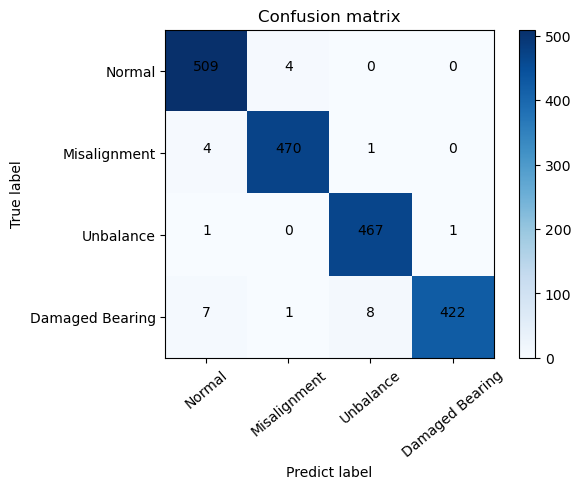
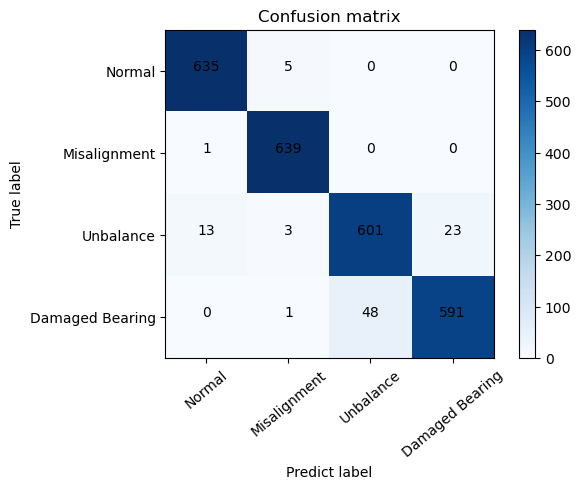
update readme 240808

diff --git a/README.md b/README.md
@@ -1,14 +1,18 @@
 # Fault Diagnosis with Time-Domain Vibration Data
+
 This repository aims to diagnose types of faults based on time-domain vibration data using neural networks. It covers experiments conducted with Temporal Convolution Network-LSTM models.
 
 ## Experimental Setup
+
 - 4 DC Motors
-    - Normal | Misalignment | Unbalance | Damaged Bearing
+  - Normal | Misalignment | Unbalance | Damaged Bearing
 - 26.5kHz Sampling Rate
 - Data Collection: 102400 samples every 5 seconds
 
 ## Dependencies
+
 Version of libraries may not make a problem except tensorflow.
+
 - tensorflow == 2.9.0
 - scikit-learn == 1.0.2
 - numpy == 1.21.6
@@ -16,6 +20,7 @@ Version of libraries may not make a problem except tensorflow.
 - matplotlib == 3.5.2
 
 ## Temporal Convolution Network-LSTM
+
 The TCN implementation is based on @philipperemy's work (https://github.com/philipperemy/keras-tcn).
 
 The TCN-LSTM architecture is created by myself.
@@ -30,16 +35,32 @@ The TCN-LSTM architecture is created by myself.
 - Validation data: 3410
 - Test data: 1895
 
+### Train Data Structure
+
+- data(`data_path`)
+  - label 1
+    - data1.csv
+    - data2.csv
+    - ...
+  - label 2
+  - label 3
+  - label 4
+
 ## Experimental results
 
 Even if the accuracy for sampling points is not 100%, with a total of over 100,000 data points available for real-time diagnosis, the final fault diagnosis is determined based on the majority of predictions obtained during real-time diagnosis. In the experimental environment, as mentioned earlier, the test results confirmed successful fault type diagnosis.
+
+## +) 240808
+
+- Apply Normalization with MinMaxScaler()
+- It needs one normal status vibration data as csv
 
 ### TCN-LSTM
 
 - Test datasets = 1895
 - ROC AUC = 0.995
-- F1 Score = 0.9857519788918205
-- Accuracy = 98.575 %
+- F1 Score = 0.96328125
+- Accuracy = 96.328 %
 
 <p align="center">
   <img src="assets/tcn-output.png">
